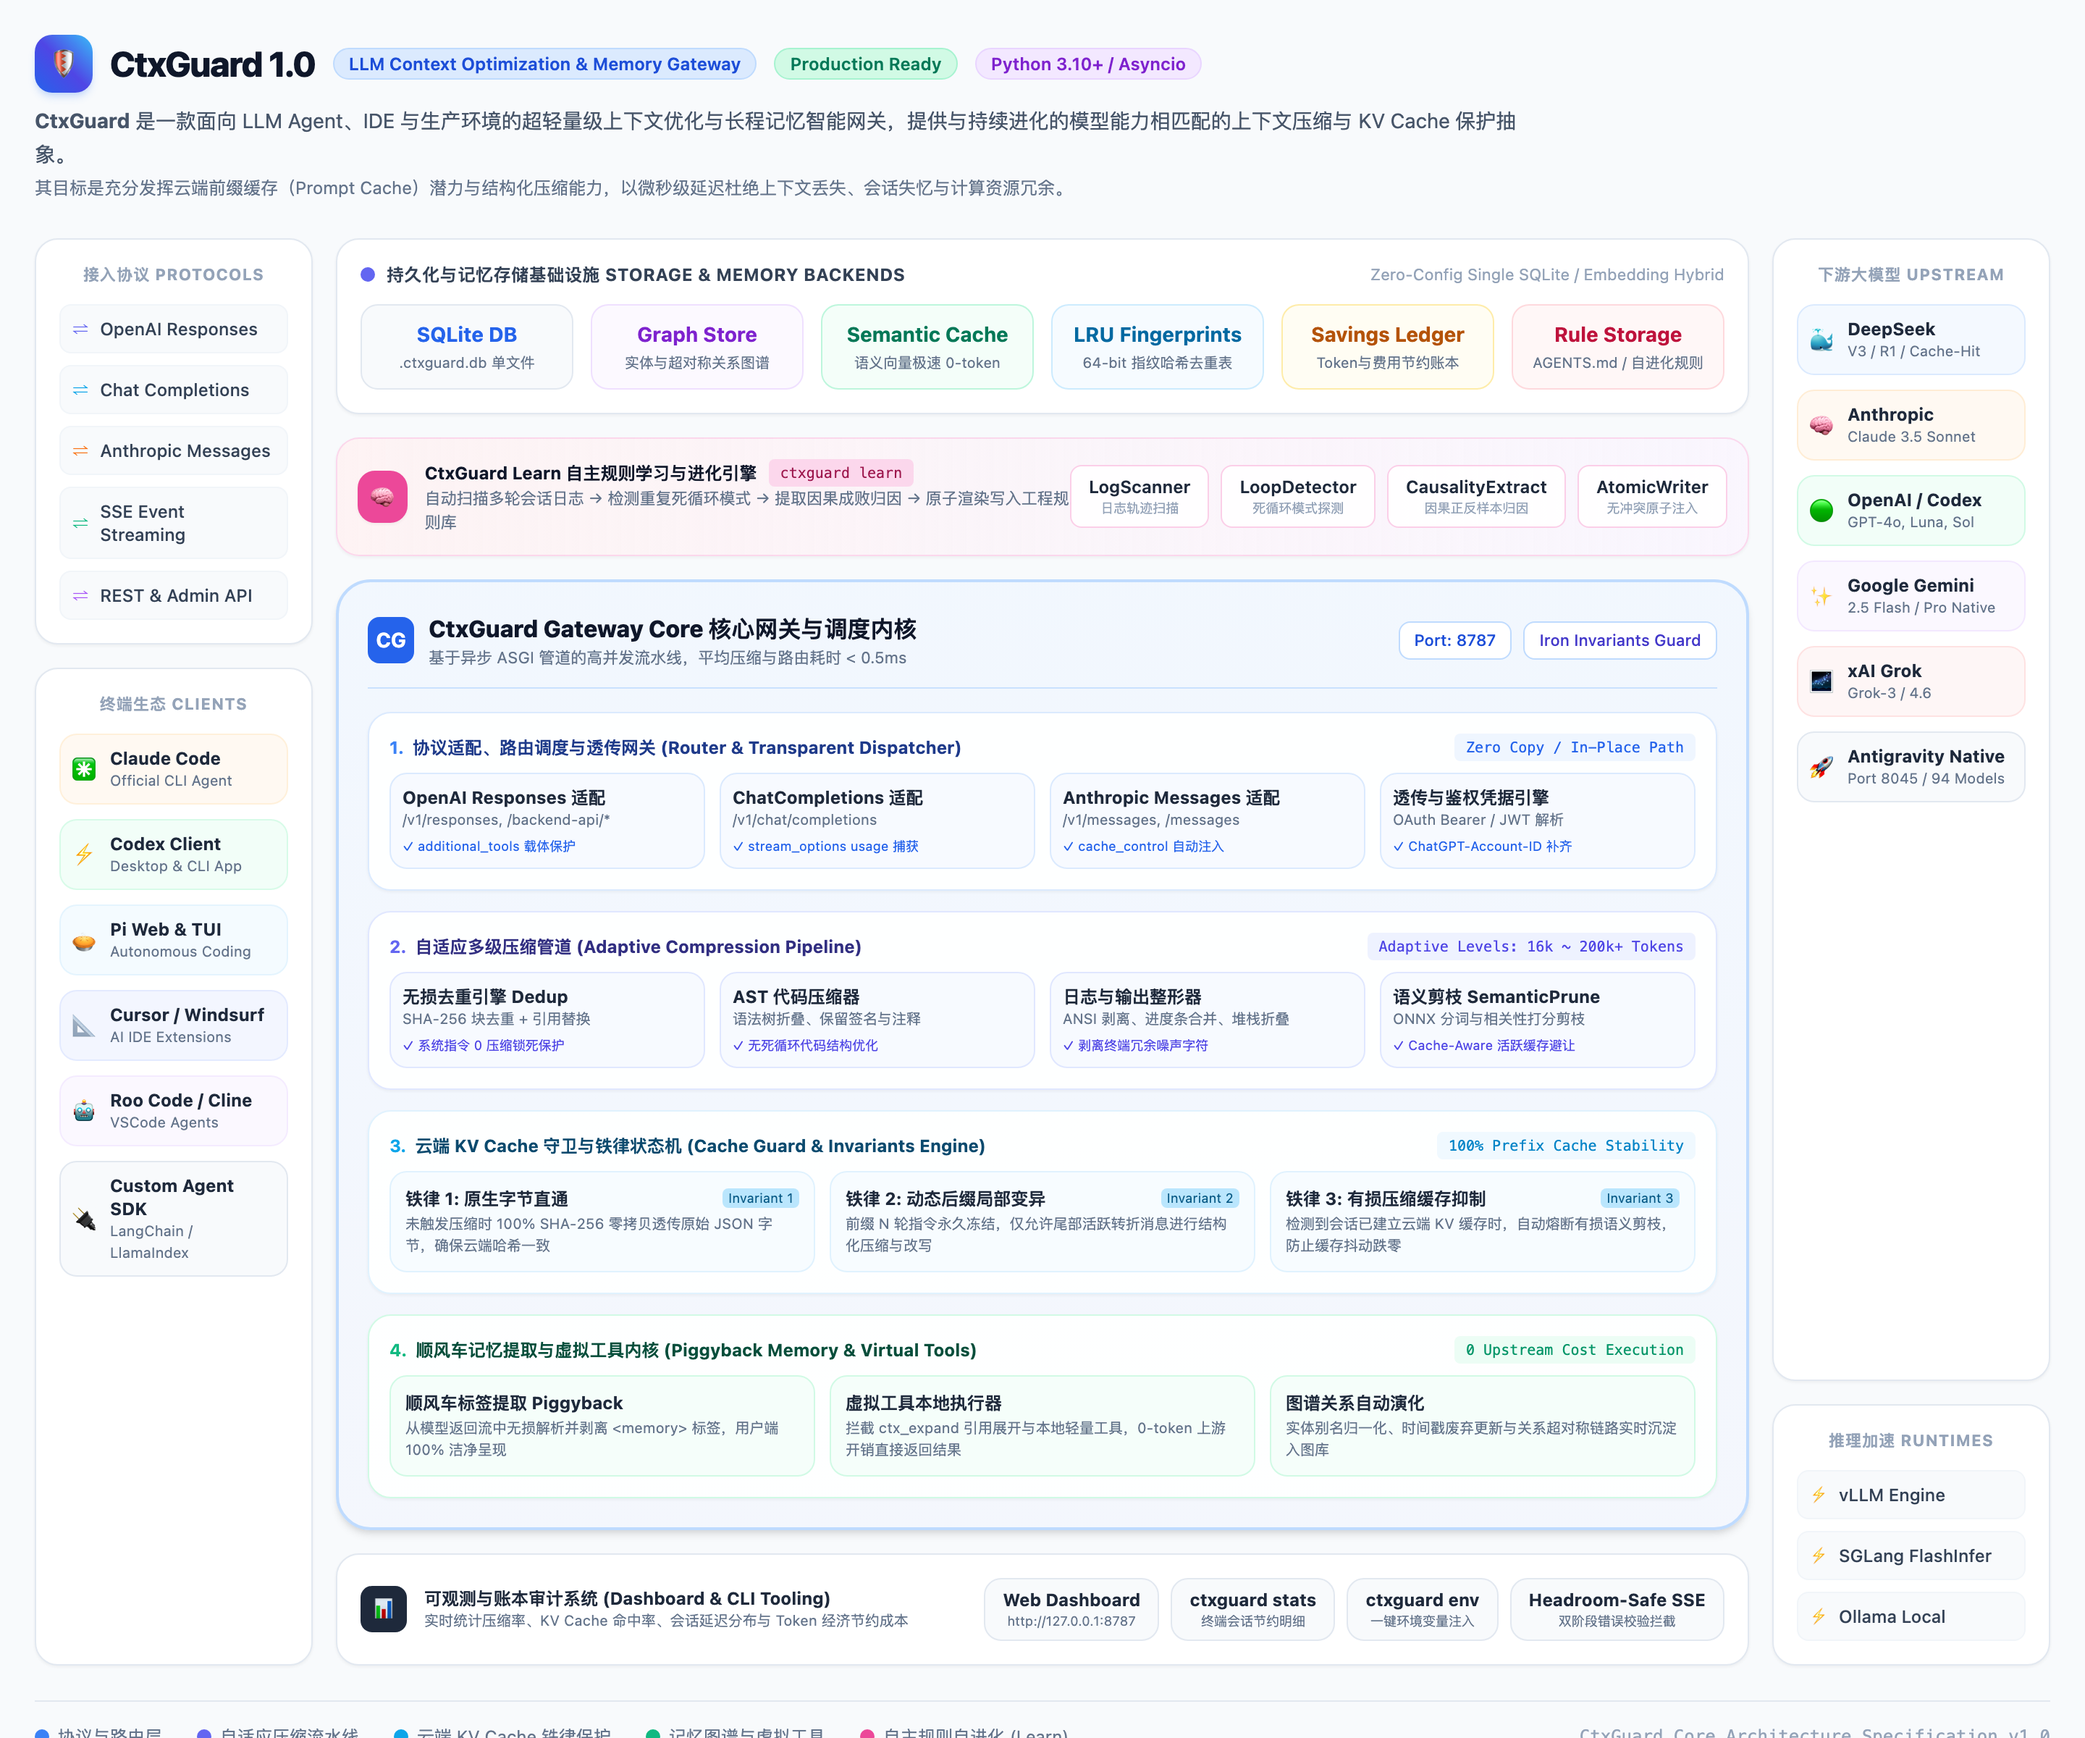
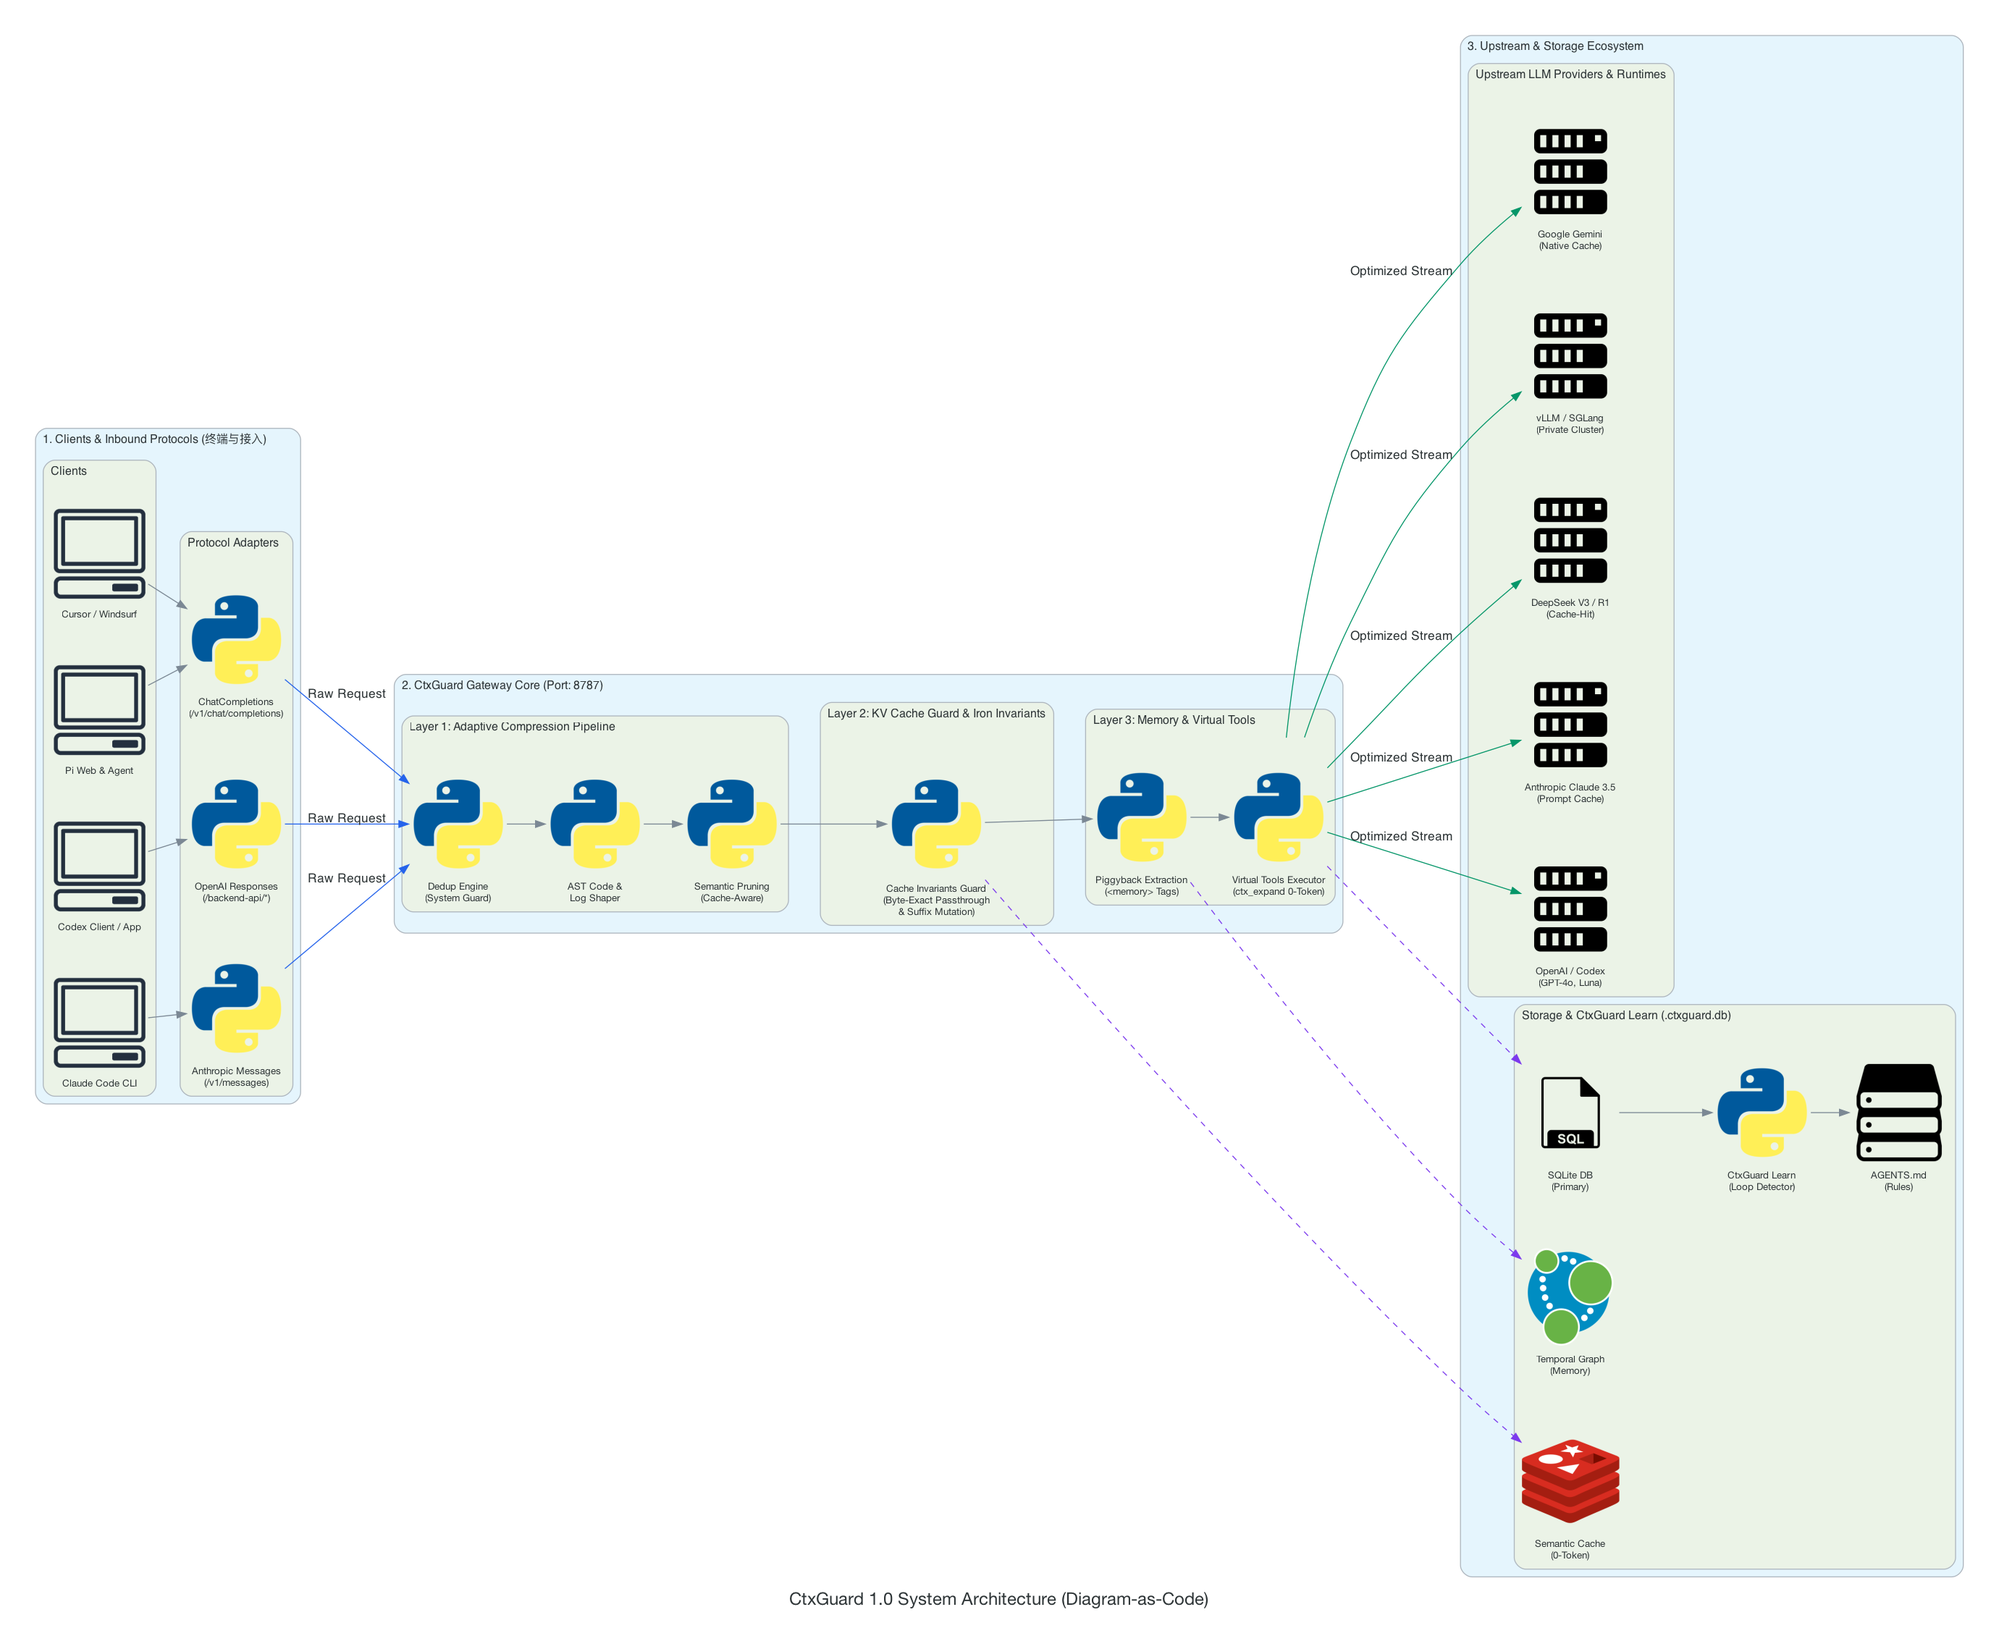
docs: adopt Python Diagrams-as-Code architecture diagram

diff --git a/README.md b/README.md
@@ -43,6 +43,8 @@ CtxGuard 提供了现代化的一体化监控控制台（默认访问 `http://12
 
 ![CtxGuard 1.0 System Architecture](assets/architecture_diagram.png)
 
+*注：架构图由 Python Diagrams-as-Code 脚本自动渲染生成（源码见 `docs/generate_diagram.py`）。*
+
 </div>
 
 ---
